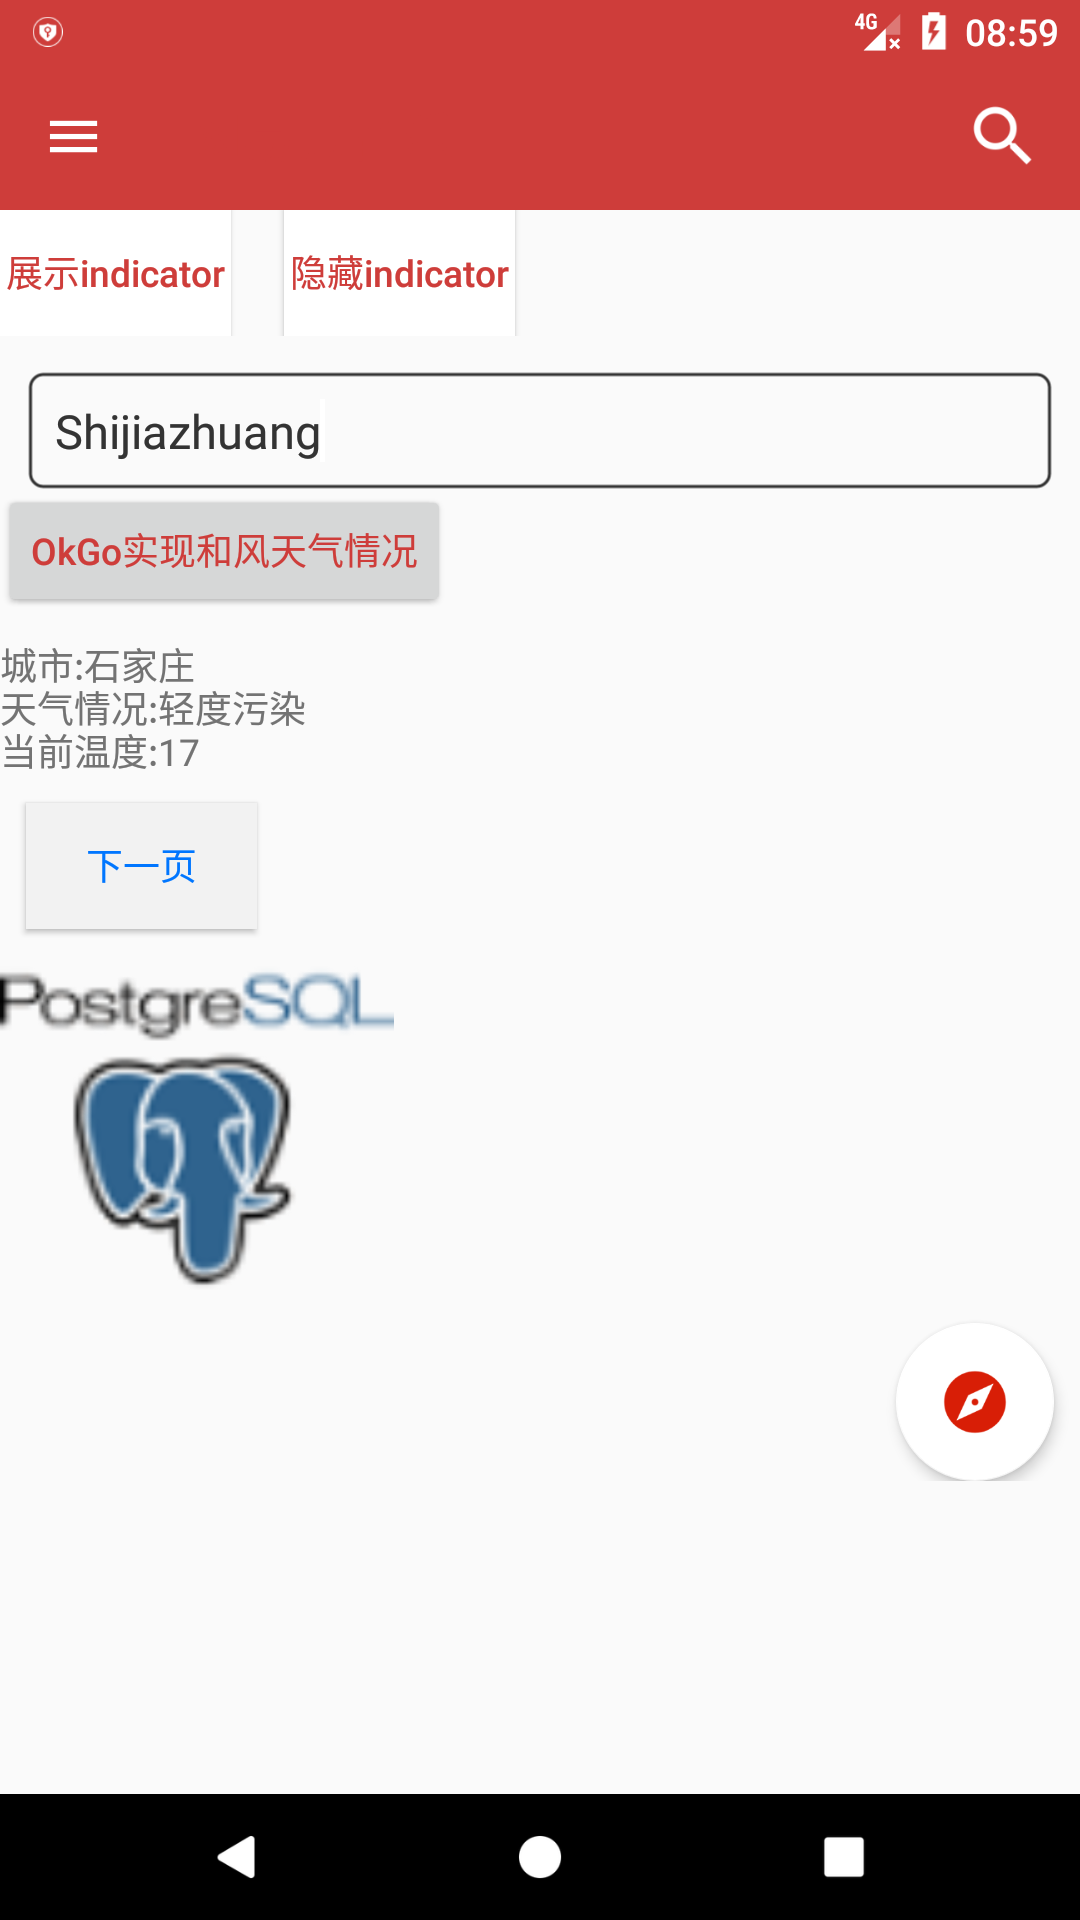
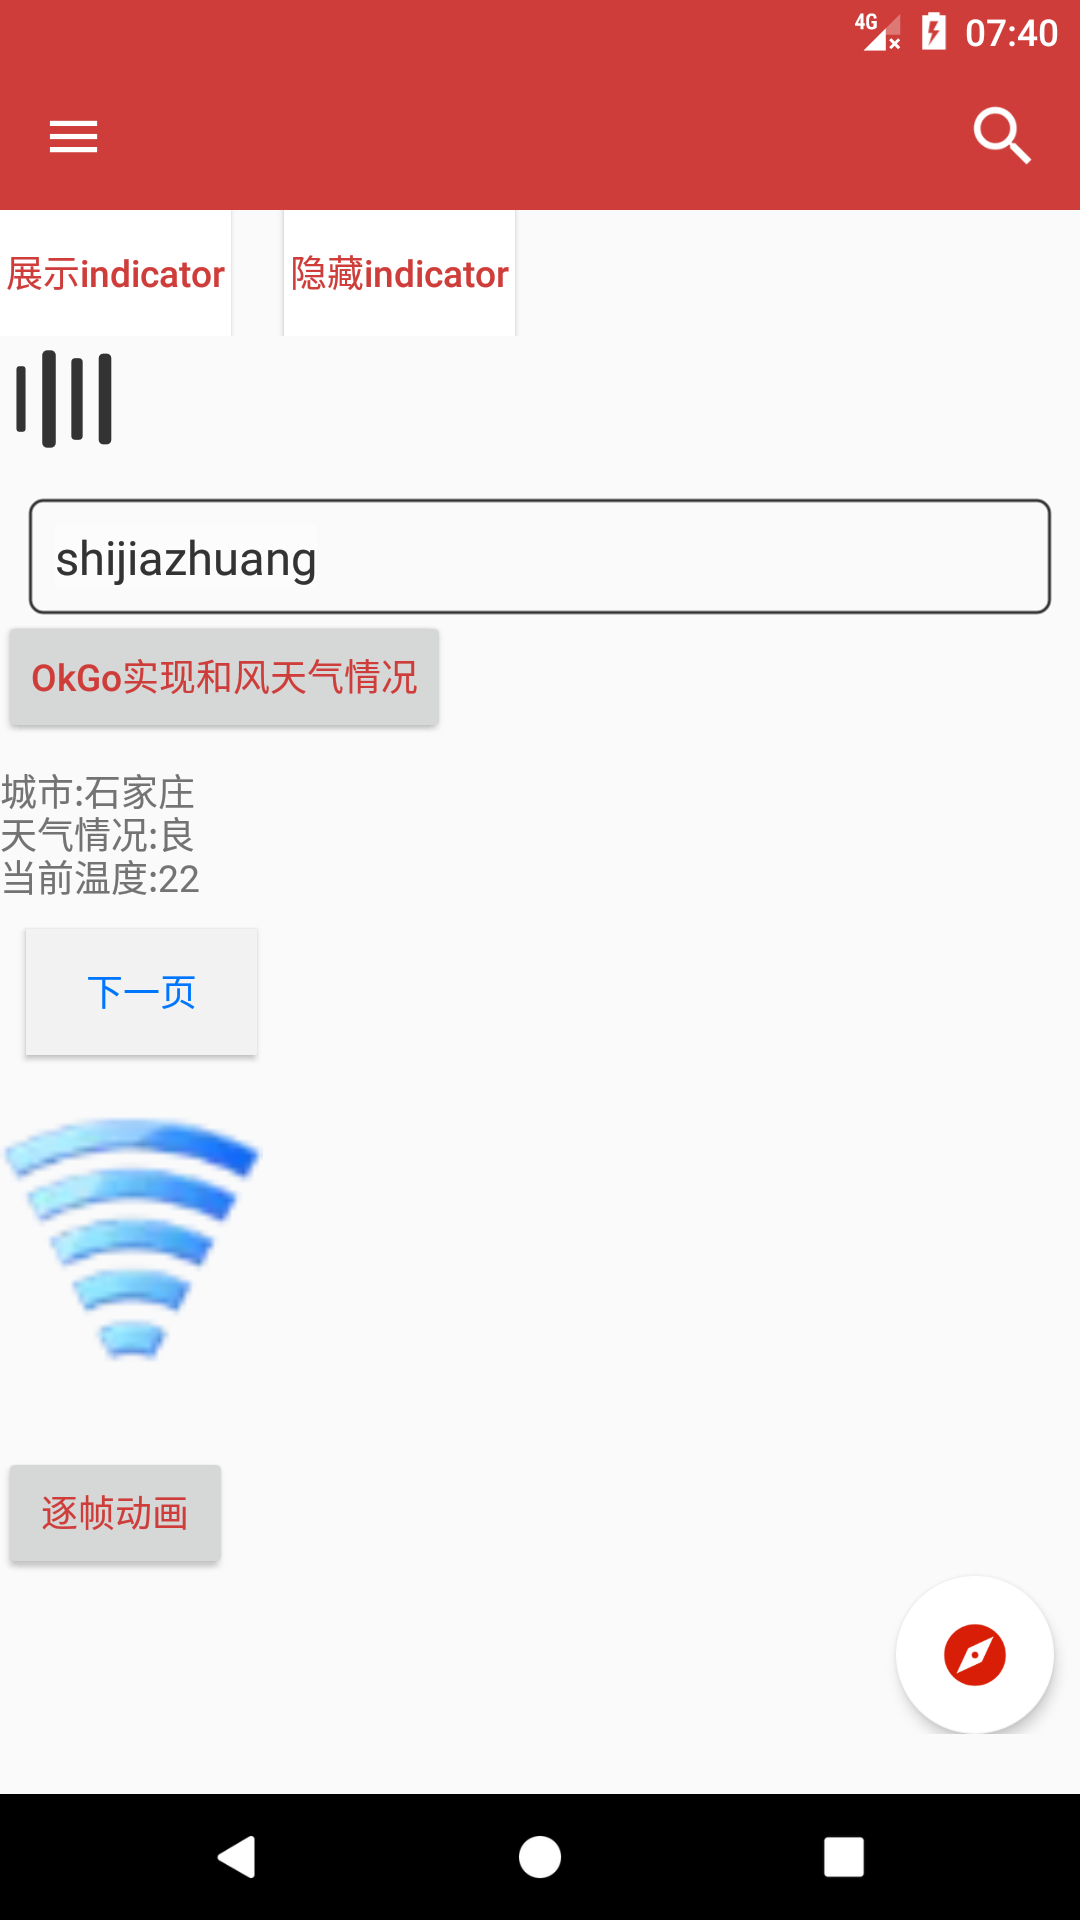
测试frame animation和fragmentUtils

diff --git a/app/src/main/java/com/demotest/MainActivity.java b/app/src/main/java/com/demotest/MainActivity.java
@@ -2,6 +2,7 @@ package com.demotest;
 
 import android.content.Intent;
 import android.content.pm.ActivityInfo;
+import android.graphics.drawable.AnimationDrawable;
 import android.os.Bundle;
 import android.support.design.widget.FloatingActionButton;
 import android.support.v7.app.ActionBar;
@@ -47,7 +48,7 @@ public class MainActivity extends AppCompatActivity  implements  View.OnClickLis
 
    private static final int REQUEST_CODE_CHOOSE = 23;
    private  static  final String urls = "https://free-api.heweather.com/v5/weather";
-    private Button mButton ,button6 ,button7 ,rx , weath;
+    private Button mButton ,button6 ,button7 ,rx , weath,frame;
     private static final String TAG = "MainActivity";
    private ImageView iv_next;
    private ImageView more_image;
@@ -58,11 +59,11 @@ public class MainActivity extends AppCompatActivity  implements  View.OnClickLis
     private Animation animation = null;
 	private EditText mEditText;
    	private AVLoadingIndicatorView avi;
-
    private Button showIn , hideIn;
     NiceDialog fNiceDialog = NiceDialog.init();
+   private AnimationDrawable animationDrawable;
 
-    @Override
+   @Override
     protected void onCreate(Bundle savedInstanceState) {
         super.onCreate(savedInstanceState);
         setContentView(R.layout.activity_main);
@@ -119,7 +120,8 @@ public class MainActivity extends AppCompatActivity  implements  View.OnClickLis
 	   hideIn = ( Button ) findViewById(R.id.hideIn);
 		showIn.setOnClickListener(this);
 	   hideIn.setOnClickListener(this);
-
+	   frame = ( Button ) findViewById(R.id.frame);
+	   frame.setOnClickListener(this);
 	   avi = ( AVLoadingIndicatorView ) findViewById(R.id.avi);
 
         toolbar = ( Toolbar ) findViewById(R.id.toolbar);
@@ -147,7 +149,6 @@ public class MainActivity extends AppCompatActivity  implements  View.OnClickLis
 	   weath.setOnClickListener(this);
 
 	   photo_view = ( ImageView ) findViewById(R.id.photo_view);
-	   photo_view.setImageResource(R.drawable.postsql);
 	   photo_view.setOnClickListener(this);
     }
 
@@ -262,6 +263,11 @@ public class MainActivity extends AppCompatActivity  implements  View.OnClickLis
 //			  avi.hide();
 			  startActivity(new Intent(MainActivity.this ,Detail.class));
 		      break;
+		   case R.id.frame:
+			  photo_view.setImageResource(R.drawable.animation1);
+			  animationDrawable = (AnimationDrawable) photo_view.getDrawable();
+			  animationDrawable.start();
+			  break;
 		   default:break;
         }
     }

diff --git a/app/src/main/java/com/demotest/Main3Activity.java b/app/src/main/java/com/demotest/Main3Activity.java
@@ -5,6 +5,13 @@ import android.support.v7.app.AppCompatActivity;
 import android.view.View;
 import android.widget.ImageView;
 
+import com.demotest.fragment.FragmentCommons;
+import com.heima.tabview.library.TabView;
+import com.heima.tabview.library.TabViewChild;
+
+import java.util.ArrayList;
+import java.util.List;
+
 import butterknife.BindView;
 import butterknife.ButterKnife;
 import butterknife.OnClick;
@@ -15,14 +22,30 @@ public class Main3Activity extends AppCompatActivity {
    ImageView mMain3Image;
    @BindView (R.id.cancel)
    ImageView mCancel;
-
+   @BindView (R.id.tabView)
+   TabView mTabView;
+   List<TabViewChild > tabViewChildList=new ArrayList<>();
    @Override
    protected void onCreate( Bundle savedInstanceState ) {
 	  super.onCreate(savedInstanceState);
 	  setContentView(R.layout.activity_main3);
 	  ButterKnife.bind(this);
+		initView();
+   }
 
-
+   void initView(){
+	  mTabView = ( TabView ) findViewById(R.id.tabView);
+	  TabViewChild tabViewChild01=new TabViewChild(R.drawable.home_hight,R.drawable.home_normal,"首页",  FragmentCommons.newInstance("首页"));
+	  TabViewChild tabViewChild02=new TabViewChild(R.drawable.category_hight,R.drawable.category_normal,"分类",  FragmentCommons.newInstance("分类"));
+	  TabViewChild tabViewChild03=new TabViewChild(R.drawable.discovery_hight,R.drawable.discovery_normal,"资讯",  FragmentCommons.newInstance("资讯"));
+	  TabViewChild tabViewChild04=new TabViewChild(R.drawable.shop_hight,R.drawable.shop_normal,"购物车", FragmentCommons.newInstance("购物车"));
+	  TabViewChild tabViewChild05=new TabViewChild(R.drawable.profile_hight,R.drawable.profile_normal,"我的",  FragmentCommons.newInstance("我的"));
+	  tabViewChildList.add(tabViewChild01);
+	  tabViewChildList.add(tabViewChild02);
+	  tabViewChildList.add(tabViewChild03);
+	  tabViewChildList.add(tabViewChild04);
+	  tabViewChildList.add(tabViewChild05);
+	  mTabView.setTabViewChild(tabViewChildList,getSupportFragmentManager());
    }
 
    @OnClick (R.id.cancel)

diff --git a/app/src/main/java/com/demotest/fragment/FragmentCommons.java b/app/src/main/java/com/demotest/fragment/FragmentCommons.java
@@ -1,0 +1,34 @@
+package com.demotest.fragment;
+
+import android.os.Bundle;
+import android.support.annotation.Nullable;
+import android.view.LayoutInflater;
+import android.view.View;
+import android.view.ViewGroup;
+import android.widget.TextView;
+
+import com.demotest.R;
+
+/**
+ *
+ * @author a
+ * @date 2017/11/7
+ */
+
+public class FragmentCommons extends android.support.v4.app.Fragment {
+   @Nullable
+   public static FragmentCommons newInstance( String text){
+	  FragmentCommons fragmentCommon=new FragmentCommons();
+	  Bundle bundle=new Bundle();
+	  bundle.putString("text",text);
+	  fragmentCommon.setArguments(bundle);
+	  return fragmentCommon;
+   }
+   @Override
+   public View onCreateView( final LayoutInflater inflater, @Nullable final ViewGroup container, final Bundle savedInstanceState ) {
+	  View view = inflater.inflate(R.layout.fg_content,container,false);
+	  TextView txt_content = (TextView) view.findViewById(R.id.txt_content);
+	  txt_content.setText(getArguments().getString("text"));
+	  return view;
+   }
+}

diff --git a/app/src/main/java/com/demotest/FullscreenActivity.java b/app/src/main/java/com/demotest/FullscreenActivity.java
@@ -16,22 +16,11 @@ import com.bumptech.glide.Glide;
  * status bar and navigation/system bar) with user interaction.
  */
 public class FullscreenActivity extends Activity {
-   /**
-	* Whether or not the system UI should be auto-hidden after
-	* {@link #AUTO_HIDE_DELAY_MILLIS} milliseconds.
-	*/
+
    private static final boolean AUTO_HIDE = true;
 
-   /**
-	* If {@link #AUTO_HIDE} is set, the number of milliseconds to wait after
-	* user interaction before hiding the system UI.
-	*/
    private static final int AUTO_HIDE_DELAY_MILLIS = 3000;
 
-   /**
-	* Some older devices needs a small delay between UI widget updates
-	* and a change of the status and navigation bar.
-	*/
    private static final int UI_ANIMATION_DELAY = 300;
    private final Handler mHideHandler = new Handler();
    private View mContentView;
